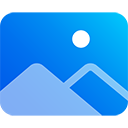
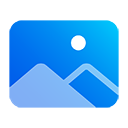
优化创建索引逻辑，增加多线程 更换图片类型图标和代码类型文件图标 新增索引创建完成提示和搜索结果提示优化

Changed region(s): [[0.0, 0.0938, 1.0, 0.9062], [0.5312, 0.2188, 0.7188, 0.4062]]

diff --git a/TextLocator/Index/LuceneIndexCore.cs b/TextLocator/Index/LuceneIndexCore.cs
@@ -8,6 +8,7 @@ using System.Threading;
 using TextLocator.Core;
 using TextLocator.Enums;
 using TextLocator.Factory;
+using TextLocator.Index;
 using TextLocator.Service;
 using TextLocator.Util;
 
@@ -24,13 +25,23 @@ namespace TextLocator.Index
         /// 状态回调委托
         /// </summary>
         /// <param name="status"></param>
-        public delegate void StatusCallback(string status);
+        public delegate void Callback(string status);
+
+        /// <summary>
+        /// 锁
+        /// </summary>
+        private static object locker = new object();
+
+        /// <summary>
+        /// 已完成数量
+        /// </summary>
+        private static volatile int finishCount = 0;
 
         /// <summary>
         /// 创建索引
         /// </summary>
         /// <param name="filePaths">获得的文档包</param>
-        public static void CreateIndex(List<string> filePaths, bool rebuild, StatusCallback callback)
+        public static void CreateIndex(List<string> filePaths, bool rebuild, Callback callback)
         {
             // 判断是创建索引还是增量索引（如果索引目录不存在，重建）
             bool create = !Directory.Exists(AppConst.APP_INDEX_DIR);
@@ -41,26 +52,65 @@ namespace TextLocator.Index
             } 
 
             // 索引写入初始化（FSDirectory表示索引存放在硬盘上，RAMDirectory表示放在内存上）
-            Lucene.Net.Index.IndexWriter writer = new Lucene.Net.Index.IndexWriter(AppConst.INDEX_DIRECTORY, AppConst.INDEX_ANALYZER, create, Lucene.Net.Index.IndexWriter.MaxFieldLength.UNLIMITED);
+            Lucene.Net.Index.IndexWriter indexWriter = new Lucene.Net.Index.IndexWriter(AppConst.INDEX_DIRECTORY, AppConst.INDEX_ANALYZER, create, Lucene.Net.Index.IndexWriter.MaxFieldLength.UNLIMITED);
 
             // 文件总数
             int count = filePaths.Count();
 
-            // 遍历读取文件，并创建索引
-            for (int i = 0; i < count; i++)
+            using (var countDown = new MutipleThreadResetEvent(count))
             {
-                // 文件路径
-                string filePath = filePaths[i];
-
-                // 临时文件跳过
-                if (filePath.IndexOf("~$") >0)
+                // 设置线程最大数量
+                ThreadPool.SetMaxThreads(24, 48);
+                // 遍历读取文件，并创建索引
+                for (int i = 0; i < count; i++)
                 {
-                    continue;
+                    // 加入线程池
+                    ThreadPool.QueueUserWorkItem(new WaitCallback(CreateIndexTask), new TaskInfo() {
+                        TotalCount = count,
+                        FilePath = filePaths[i],
+                        Create = create,
+                        IndexWriter = indexWriter,
+                        Callback = callback,
+                        ResetEvent = countDown
+                    });
+                }
+
+                // 等待所有线程结束
+                countDown.WaitAll();
+                countDown.Dispose();
+            }
+
+            try
+            {
+                indexWriter.Dispose();
+            }
+            catch (Exception ex)
+            {
+                log.Error(ex.Message, ex);
+            }
+        }
+
+        /// <summary>
+        /// 创建索引任务方法
+        /// </summary>
+        /// <param name="obj"></param>
+        private static void CreateIndexTask(object obj)
+        {
+            TaskInfo taskInfo = obj as TaskInfo;
+            try
+            {
+                string filePath = taskInfo.FilePath;
+                bool create = taskInfo.Create;
+                Lucene.Net.Index.IndexWriter indexWriter = taskInfo.IndexWriter;
+                // 临时文件跳过
+                if (filePath.IndexOf("~$") > 0)
+                {
+                    return;
                 }
                 // 非重建 && 文件已经被索引过
                 if (!create && !string.IsNullOrEmpty(AppUtil.ReadIni("FileIndex", filePath, "")))
                 {
-                    continue;
+                    return;
                 }
 
                 // 写入
@@ -84,58 +134,78 @@ namespace TextLocator.Index
                 // 根据文件路径获取文件类型（自定义文件类型分类）
                 FileType fileType = FileTypeUtil.GetFileType(filePath);
 
-                IFileInfoService fileInfoService = FileInfoServiceFactory.GetFileInfoService(fileType);
-
-                // 文件内容
-                string content = fileInfoService.GetFileContent(filePath);
-
-                // 缩略信息
-                string breviary = new Regex(" |\r|\n|\\s").Replace(content, "");
-                if (breviary.Length > 150)
+                lock (locker)
                 {
-                    breviary = breviary.Substring(0, 150) + "...";
+                    IFileInfoService fileInfoService = FileInfoServiceFactory.GetFileInfoService(fileType);
+
+                    // 文件内容
+                    string content = fileInfoService.GetFileContent(filePath);
+
+                    // 缩略信息
+                    string breviary = new Regex(" |\r|\n|\\s").Replace(content, "");
+                    if (breviary.Length > 150)
+                    {
+                        breviary = breviary.Substring(0, 150) + "...";
+                    }
+
+                    // 当索引文件中含有与filemark相等的field值时，会先删除再添加，以防出现重复
+                    indexWriter.DeleteDocuments(new Lucene.Net.Index.Term("FileMark", fileMark));
+
+                    Lucene.Net.Documents.Document doc = new Lucene.Net.Documents.Document();
+                    // 不分词建索引
+                    doc.Add(new Lucene.Net.Documents.Field("FileMark", fileMark, Lucene.Net.Documents.Field.Store.YES, Lucene.Net.Documents.Field.Index.NOT_ANALYZED));
+                    doc.Add(new Lucene.Net.Documents.Field("FileType", fileType.ToString(), Lucene.Net.Documents.Field.Store.YES, Lucene.Net.Documents.Field.Index.NOT_ANALYZED));
+                    doc.Add(new Lucene.Net.Documents.Field("FileSize", fileSize + "", Lucene.Net.Documents.Field.Store.YES, Lucene.Net.Documents.Field.Index.NOT_ANALYZED));
+                    doc.Add(new Lucene.Net.Documents.Field("Breviary", breviary, Lucene.Net.Documents.Field.Store.YES, Lucene.Net.Documents.Field.Index.NOT_ANALYZED));
+                    doc.Add(new Lucene.Net.Documents.Field("CreateTime", createTime, Lucene.Net.Documents.Field.Store.YES, Lucene.Net.Documents.Field.Index.NOT_ANALYZED));
+
+                    // ANALYZED分词建索引
+                    doc.Add(new Lucene.Net.Documents.Field("FileName", fileName, Lucene.Net.Documents.Field.Store.YES, Lucene.Net.Documents.Field.Index.ANALYZED));
+                    doc.Add(new Lucene.Net.Documents.Field("FilePath", filePath, Lucene.Net.Documents.Field.Store.YES, Lucene.Net.Documents.Field.Index.ANALYZED));
+                    doc.Add(new Lucene.Net.Documents.Field("Content", content, Lucene.Net.Documents.Field.Store.NO, Lucene.Net.Documents.Field.Index.ANALYZED));
+
+                    indexWriter.AddDocument(doc);
+                    // 优化索引
+                    indexWriter.Optimize();
+
+                    finishCount++;
                 }
 
-                // 当索引文件中含有与filemark相等的field值时，会先删除再添加，以防出现重复
-                writer.DeleteDocuments(new Lucene.Net.Index.Term("FileMark", fileMark));
-
-                Lucene.Net.Documents.Document doc = new Lucene.Net.Documents.Document();
-                // 不分词建索引
-                doc.Add(new Lucene.Net.Documents.Field("FileMark", fileMark, Lucene.Net.Documents.Field.Store.YES, Lucene.Net.Documents.Field.Index.NOT_ANALYZED));
-                doc.Add(new Lucene.Net.Documents.Field("FileType", fileType.ToString(), Lucene.Net.Documents.Field.Store.YES, Lucene.Net.Documents.Field.Index.NOT_ANALYZED));
-                doc.Add(new Lucene.Net.Documents.Field("FileSize", fileSize + "", Lucene.Net.Documents.Field.Store.YES, Lucene.Net.Documents.Field.Index.NOT_ANALYZED));
-                doc.Add(new Lucene.Net.Documents.Field("Breviary", breviary, Lucene.Net.Documents.Field.Store.YES, Lucene.Net.Documents.Field.Index.NOT_ANALYZED));
-                doc.Add(new Lucene.Net.Documents.Field("CreateTime", createTime, Lucene.Net.Documents.Field.Store.YES, Lucene.Net.Documents.Field.Index.NOT_ANALYZED));
-
-                // ANALYZED分词建索引
-                doc.Add(new Lucene.Net.Documents.Field("FileName", fileName, Lucene.Net.Documents.Field.Store.YES, Lucene.Net.Documents.Field.Index.ANALYZED));
-                doc.Add(new Lucene.Net.Documents.Field("FilePath", filePath, Lucene.Net.Documents.Field.Store.YES, Lucene.Net.Documents.Field.Index.ANALYZED));
-                doc.Add(new Lucene.Net.Documents.Field("Content", content, Lucene.Net.Documents.Field.Store.NO, Lucene.Net.Documents.Field.Index.ANALYZED));
-
-                writer.AddDocument(doc);
-                // 优化索引
-                writer.Optimize();
-
-                string msg = "索引：[" + i + " / " + count + "] => 文件：" + filePath + "，耗时：" + (DateTime.Now - beginMark).TotalSeconds + "秒";
+                string msg = "索引：[" + finishCount + " / " + taskInfo.TotalCount + "] => 文件：" + filePath + "，耗时：" + (DateTime.Now - beginMark).TotalSeconds + "秒";
 
                 // 执行状态回调
-                callback(msg);
+                taskInfo.Callback(msg);
 
-                log.Debug(msg);                
-
-                // 手动GC
-                GC.Collect();
-                GC.WaitForPendingFinalizers();
-            }
-
-            try
-            {
-                writer.Dispose();
+                log.Debug(msg);
             }
             catch (Exception ex)
             {
                 log.Error(ex.Message, ex);
             }
+            finally
+            {
+                // 手动GC
+                GC.Collect();
+                GC.WaitForPendingFinalizers();
+
+                try
+                {
+                    taskInfo.ResetEvent.SetOne();
+                } catch { }
+            }
+        }
+
+        /// <summary>
+        /// 任务信息
+        /// </summary>
+        class TaskInfo
+        {
+            public int TotalCount { get; set; }
+            public string FilePath { get; set; }
+            public bool Create { get; set; }
+            public Lucene.Net.Index.IndexWriter IndexWriter { get; set; }
+            public LuceneIndexCore.Callback Callback { get; set; }
+            public MutipleThreadResetEvent ResetEvent { get; set; }
         }
     }
 }

diff --git a/TextLocator/Index/MutipleThreadResetEvent.cs b/TextLocator/Index/MutipleThreadResetEvent.cs
@@ -1,0 +1,59 @@
+using System;
+using System.Collections.Generic;
+using System.Linq;
+using System.Text;
+using System.Threading;
+using System.Threading.Tasks;
+
+namespace TextLocator.Index
+{
+    /// <summary>
+    /// 多线程重置事件
+    /// </summary>
+    public class MutipleThreadResetEvent : IDisposable
+    {
+        private readonly ManualResetEvent done;
+        private readonly int total;
+        private long current;
+
+        /// <summary>
+        /// 构造函数
+        /// </summary>
+        /// <param name="total">需要等待执行的线程总数</param>
+        public MutipleThreadResetEvent(int total)
+        {
+            this.total = total;
+            current = total;
+            done = new ManualResetEvent(false);
+        }
+
+        /// <summary>
+        /// 唤醒一个等待的线程
+        /// </summary>
+        public void SetOne()
+        {
+            // Interlocked 原子操作类 ,此处将计数器减1
+            if (Interlocked.Decrement(ref current) == 0)
+            {
+                //当所以等待线程执行完毕时，唤醒等待的线程
+                done.Set();
+            }
+        }
+
+        /// <summary>
+        /// 等待所以线程执行完毕
+        /// </summary>
+        public void WaitAll()
+        {
+            done.WaitOne();
+        }
+
+        /// <summary>
+        /// 释放对象占用的空间
+        /// </summary>
+        public void Dispose()
+        {
+            ((IDisposable)done).Dispose();
+        }
+    }
+}

diff --git a/TextLocator/MainWindow.xaml.cs b/TextLocator/MainWindow.xaml.cs
@@ -154,8 +154,15 @@ namespace TextLocator
                     LuceneIndexCore.CreateIndex(filePaths, rebuild, ShowStatus);
                 }
 
+                string msg = "索引执行结束，共用时：" + (DateTime.Now - beginMark).TotalSeconds + "秒";
+
                 // 显示状态
-                ShowStatus("索引执行结束，共用时：" + (DateTime.Now - beginMark).TotalSeconds + "秒");
+                ShowStatus(msg);
+
+                this.Dispatcher.BeginInvoke(new Action(() =>
+                {
+                    Message.ShowSuccess("MessageContainer", msg);
+                }));
 
                 // 构建结束
                 build = false;
@@ -305,6 +312,8 @@ namespace TextLocator
                 }
 
                 string message = "检索完成！共检索到" + resultNum + "个符合条件的结果（只显示前" + num + "条）。耗时：" + (DateTime.Now - beginMark).TotalSeconds + "秒。";
+
+                Message.ShowSuccess("MessageContainer", message);
 
                 ShowStatus(message);
             }
